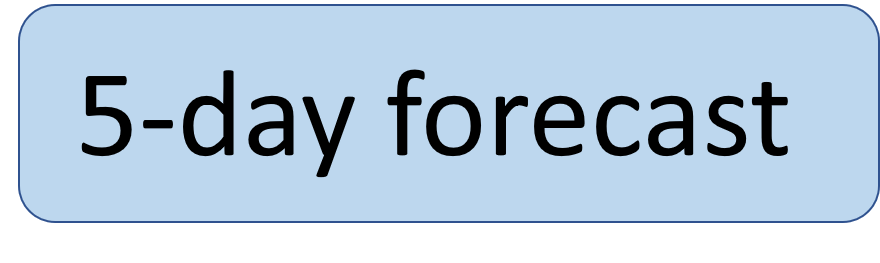
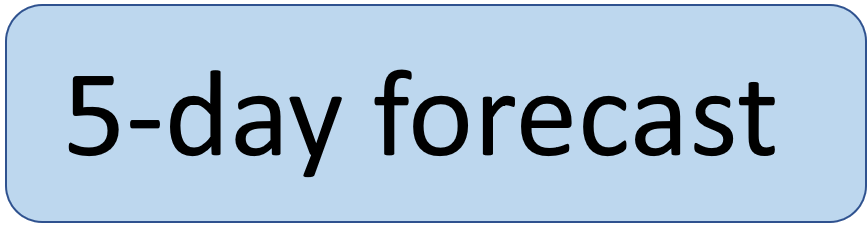
Added button for new search + cropped buttons

Changed region(s): [[0.0623, 0.2467, 0.9031, 0.8018], [0.0, 0.0, 1.0, 0.9868]]

diff --git a/pepper_html/weather/js/script_weather_long.js b/pepper_html/weather/js/script_weather_long.js
@@ -20,12 +20,21 @@ try {
 
 $(function () {
   $('#hourForecast').click(hourForecastButton);
+  $('#newSearch').click(newSearchButton);
 });
 
 
 function hourForecastButton() {
 	session.service('ALMemory').then(function (memory) {
-		memory.raiseEvent('hour_forecast', 1);
+		memory.raiseEvent('new_view', 'weather_hour.html');
+  }, function (error) {
+    console.log(error);
+  })
+}
+
+function newSearchButton() {
+	session.service('ALMemory').then(function (memory) {
+		memory.raiseEvent('new_view', 'weather_intro.html');
   }, function (error) {
     console.log(error);
   })

diff --git a/pepper_html/weather/js/script_weather_short.js b/pepper_html/weather/js/script_weather_short.js
@@ -20,12 +20,21 @@ try {
 
 $(function () {
   $('#dayForecast').click(dayForecastButton);
+  $('#newSearch').click(newSearchButton);
 });
 
 
 function dayForecastButton() {
 	session.service('ALMemory').then(function (memory) {
 		memory.raiseEvent('day_forecast', 1);
+  }, function (error) {
+    console.log(error);
+  })
+}
+
+function newSearchButton() {
+	session.service('ALMemory').then(function (memory) {
+		memory.raiseEvent('new_view', 'weather_intro.html');
   }, function (error) {
     console.log(error);
   })

diff --git a/pepper_html/weather/weather_long.html b/pepper_html/weather/weather_long.html
@@ -177,6 +177,9 @@
         <td>
             <input type="image" id="hourForecast" src="images/8h_forecast.png" alt="day" width="350" height="100"/>
         </td>
+        <td>
+            <input type="image" id="newSearch" src="images/new_search.png" alt="day" width="350" height="100"/>
+        </td>
     </tr>
 
 </table>

diff --git a/pepper_html/weather/weather_short.html b/pepper_html/weather/weather_short.html
@@ -109,6 +109,9 @@
         <td>
             <input type="image" id="dayForecast" src="images/5day.png" alt="day" width="350" height="100"/>
         </td>
+        <td>
+            <input type="image" id="newSearch" src="images/new_search.png" alt="day" width="350" height="100"/>
+        </td>
     </tr>
 
 </table>

diff --git a/Modules/weather_module.py b/Modules/weather_module.py
@@ -73,8 +73,8 @@ class WeatherModule(ModuleBaseClass):
         self.location_id = self.location_subscriber.signal.connect(self.hour_forecast)
         self.day_subscriber = self.memory.subscriber("day_forecast")
         self.day_id = self.day_subscriber.signal.connect(self.day_forecast)
-        self.hour_subscriber = self.memory.subscriber("hour_forecast")
-        self.hour_id = self.hour_subscriber.signal.connect(self.hour_forecast)
+        self.hour_subscriber = self.memory.subscriber("new_view")
+        self.hour_id = self.hour_subscriber.signal.connect(self.display_on_tablet)
 
         self.display_on_tablet('weather_intro.html')
 
@@ -86,18 +86,11 @@ class WeatherModule(ModuleBaseClass):
         self.wt.get_current_weather(self.loc)
         path = os.path.dirname(os.path.abspath('main.py')) + '/pepper_html/weather/weather_hour.html'
         self.transfer_to_pepper(path)
-        self.display_hour_forecast()
+        self.display_on_tablet('weather_hour.html')
 
     def day_forecast(self, *_args):
         self.tablet.hideWebview()
-        print "button pressed"
         self.wt.get_future_weather(self.loc)
         path = os.path.dirname(os.path.abspath('main.py')) + '/pepper_html/weather/weather_day.html'
         self.transfer_to_pepper(path)
         self.display_on_tablet('weather_day.html')
-        time.sleep(15)
-
-        self.module_finished = True
-
-    def display_hour_forecast(self, *_args):
-        self.display_on_tablet('weather_hour.html')

diff --git a/Applications/weather.py b/Applications/weather.py
@@ -79,7 +79,7 @@ class Weather:
         # Some ugly html coding
         images = soup.find_all('input')
         texts = soup.find_all('b')
-        for idx in range(len(images)-1):
+        for idx in range(len(images)-2):  # Dont loop through buttons
             images[idx]['src'] = 'images/' + self.icon_dict[icons[idx]]
             texts[2 * idx].string = hours[idx]
             temp_string = str(temps[idx].__format__('.0f')) + ' deg'
@@ -123,7 +123,7 @@ class Weather:
         text_temp_low = soup.find_all(id=re.compile('templow'))
         text_temp_high = soup.find_all(id=re.compile('temphigh'))
 
-        for idx in range(len(images)-1  ):
+        for idx in range(len(images)-2):  # Dont loop through buttons
             images[idx]['src'] = 'images/' + self.icon_dict[icons[idx]]
             text_days[idx].string = day[idx]
             text_summary[idx].string = summaries[idx]
